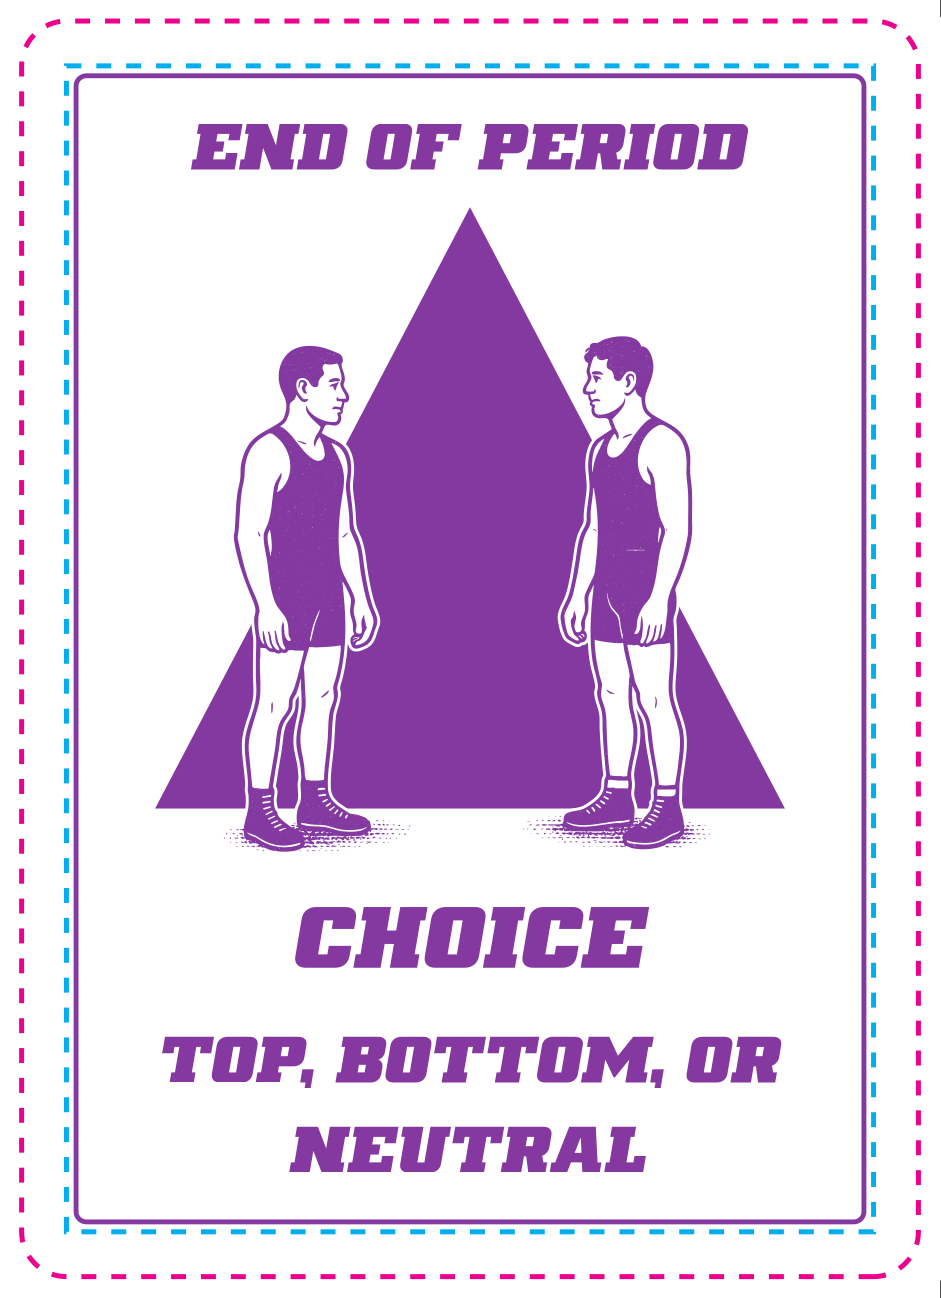
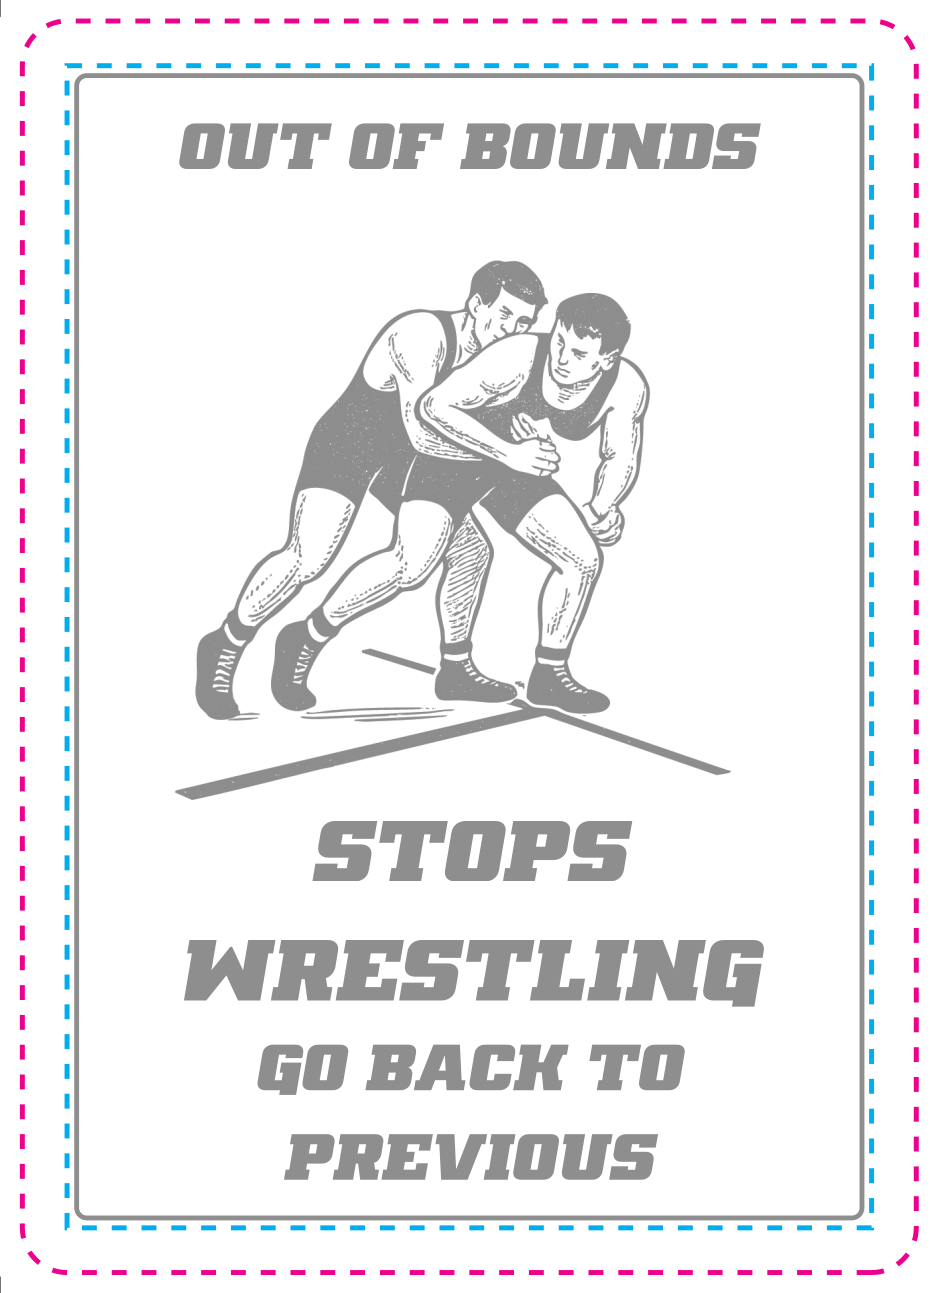
Fixed stadnup, out of bounds and label

diff --git a/server/logic.ts b/server/logic.ts
@@ -589,6 +589,13 @@ function applyCardEffects(state: GameState, card: Card, currentPlayerId: string)
       return true;
 
     case "BOTTOM":
+      if (isBottomStandUp(card))
+      {
+        for (const player of state.players) {
+          player.currentPosition = "NEUTRAL";
+        }
+        return true;
+      }
       currentPlayer.currentPosition = card.meta?.doesNotChangePosition ? currentPlayer.currentPosition : "BOTTOM";
       return true;
 
@@ -670,7 +677,15 @@ function isNeutralTakedown(card: Card): boolean {
 
   const imageFile = card.imageFile?.toLowerCase() ?? "";
   const name = card.name.toLowerCase();
-  return imageFile.includes("takedown") || name.includes("takedown");
+  return imageFile.includes("takedown") || name.includes("takedown") && !imageFile.includes("attempted");
+}
+
+function isBottomStandUp(card: Card): boolean {
+  if (card.kind !== "BOTTOM") return false;
+
+  const imageFile = card.imageFile?.toLowerCase() ?? "";
+  const name = card.name.toLowerCase();
+  return imageFile.includes("stand_up");
 }
 
 function endTurn(state: GameState) {

diff --git a/app/game/[id]/page.tsx b/app/game/[id]/page.tsx
@@ -142,7 +142,7 @@ export default function GamePage() {
     >
       <header style={{ display: "flex", justifyContent: "space-between", alignItems: "center", flexWrap: "wrap", gap: 12 }}>
         <div>
-          <h2 style={{ margin: 0 }}>Grapple Notes</h2>
+          <h2 style={{ margin: 0 }}>Grapple</h2>
           <p style={{ margin: "4px 0 0" }}>Game ID: {gameId}</p>
         </div>
         <div style={{ display: "flex", gap: 8, alignItems: "center" }}>
